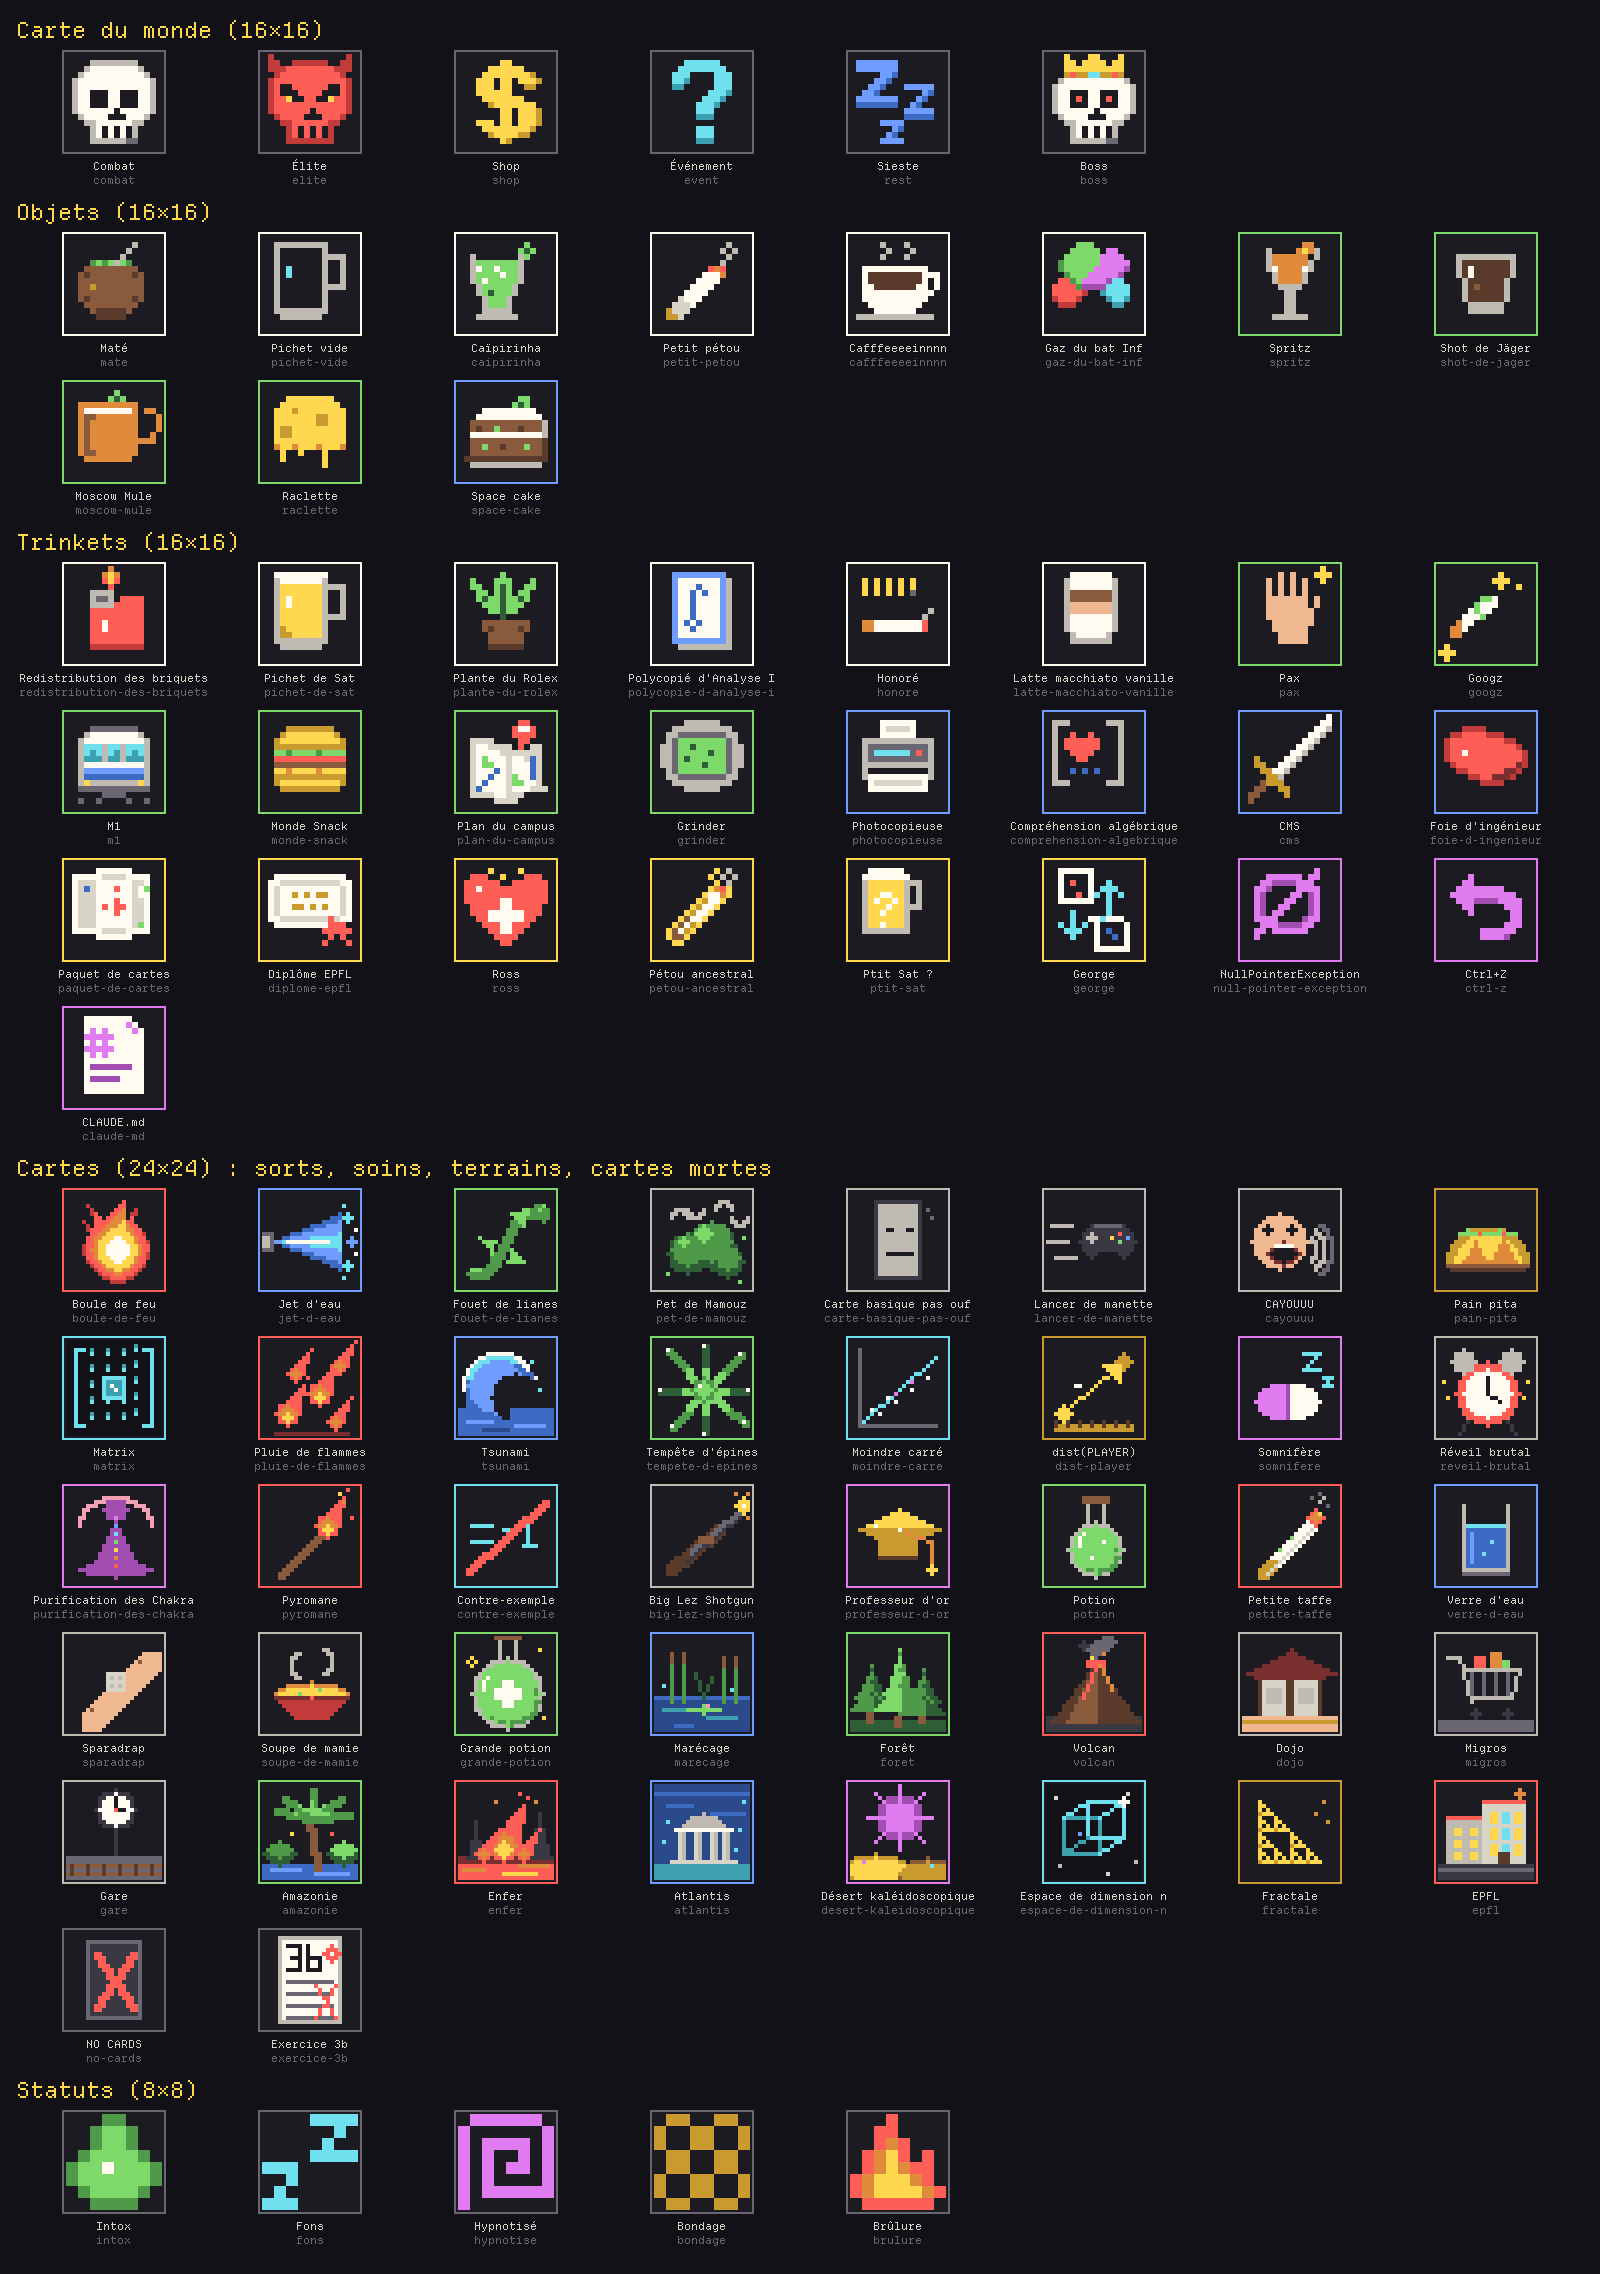
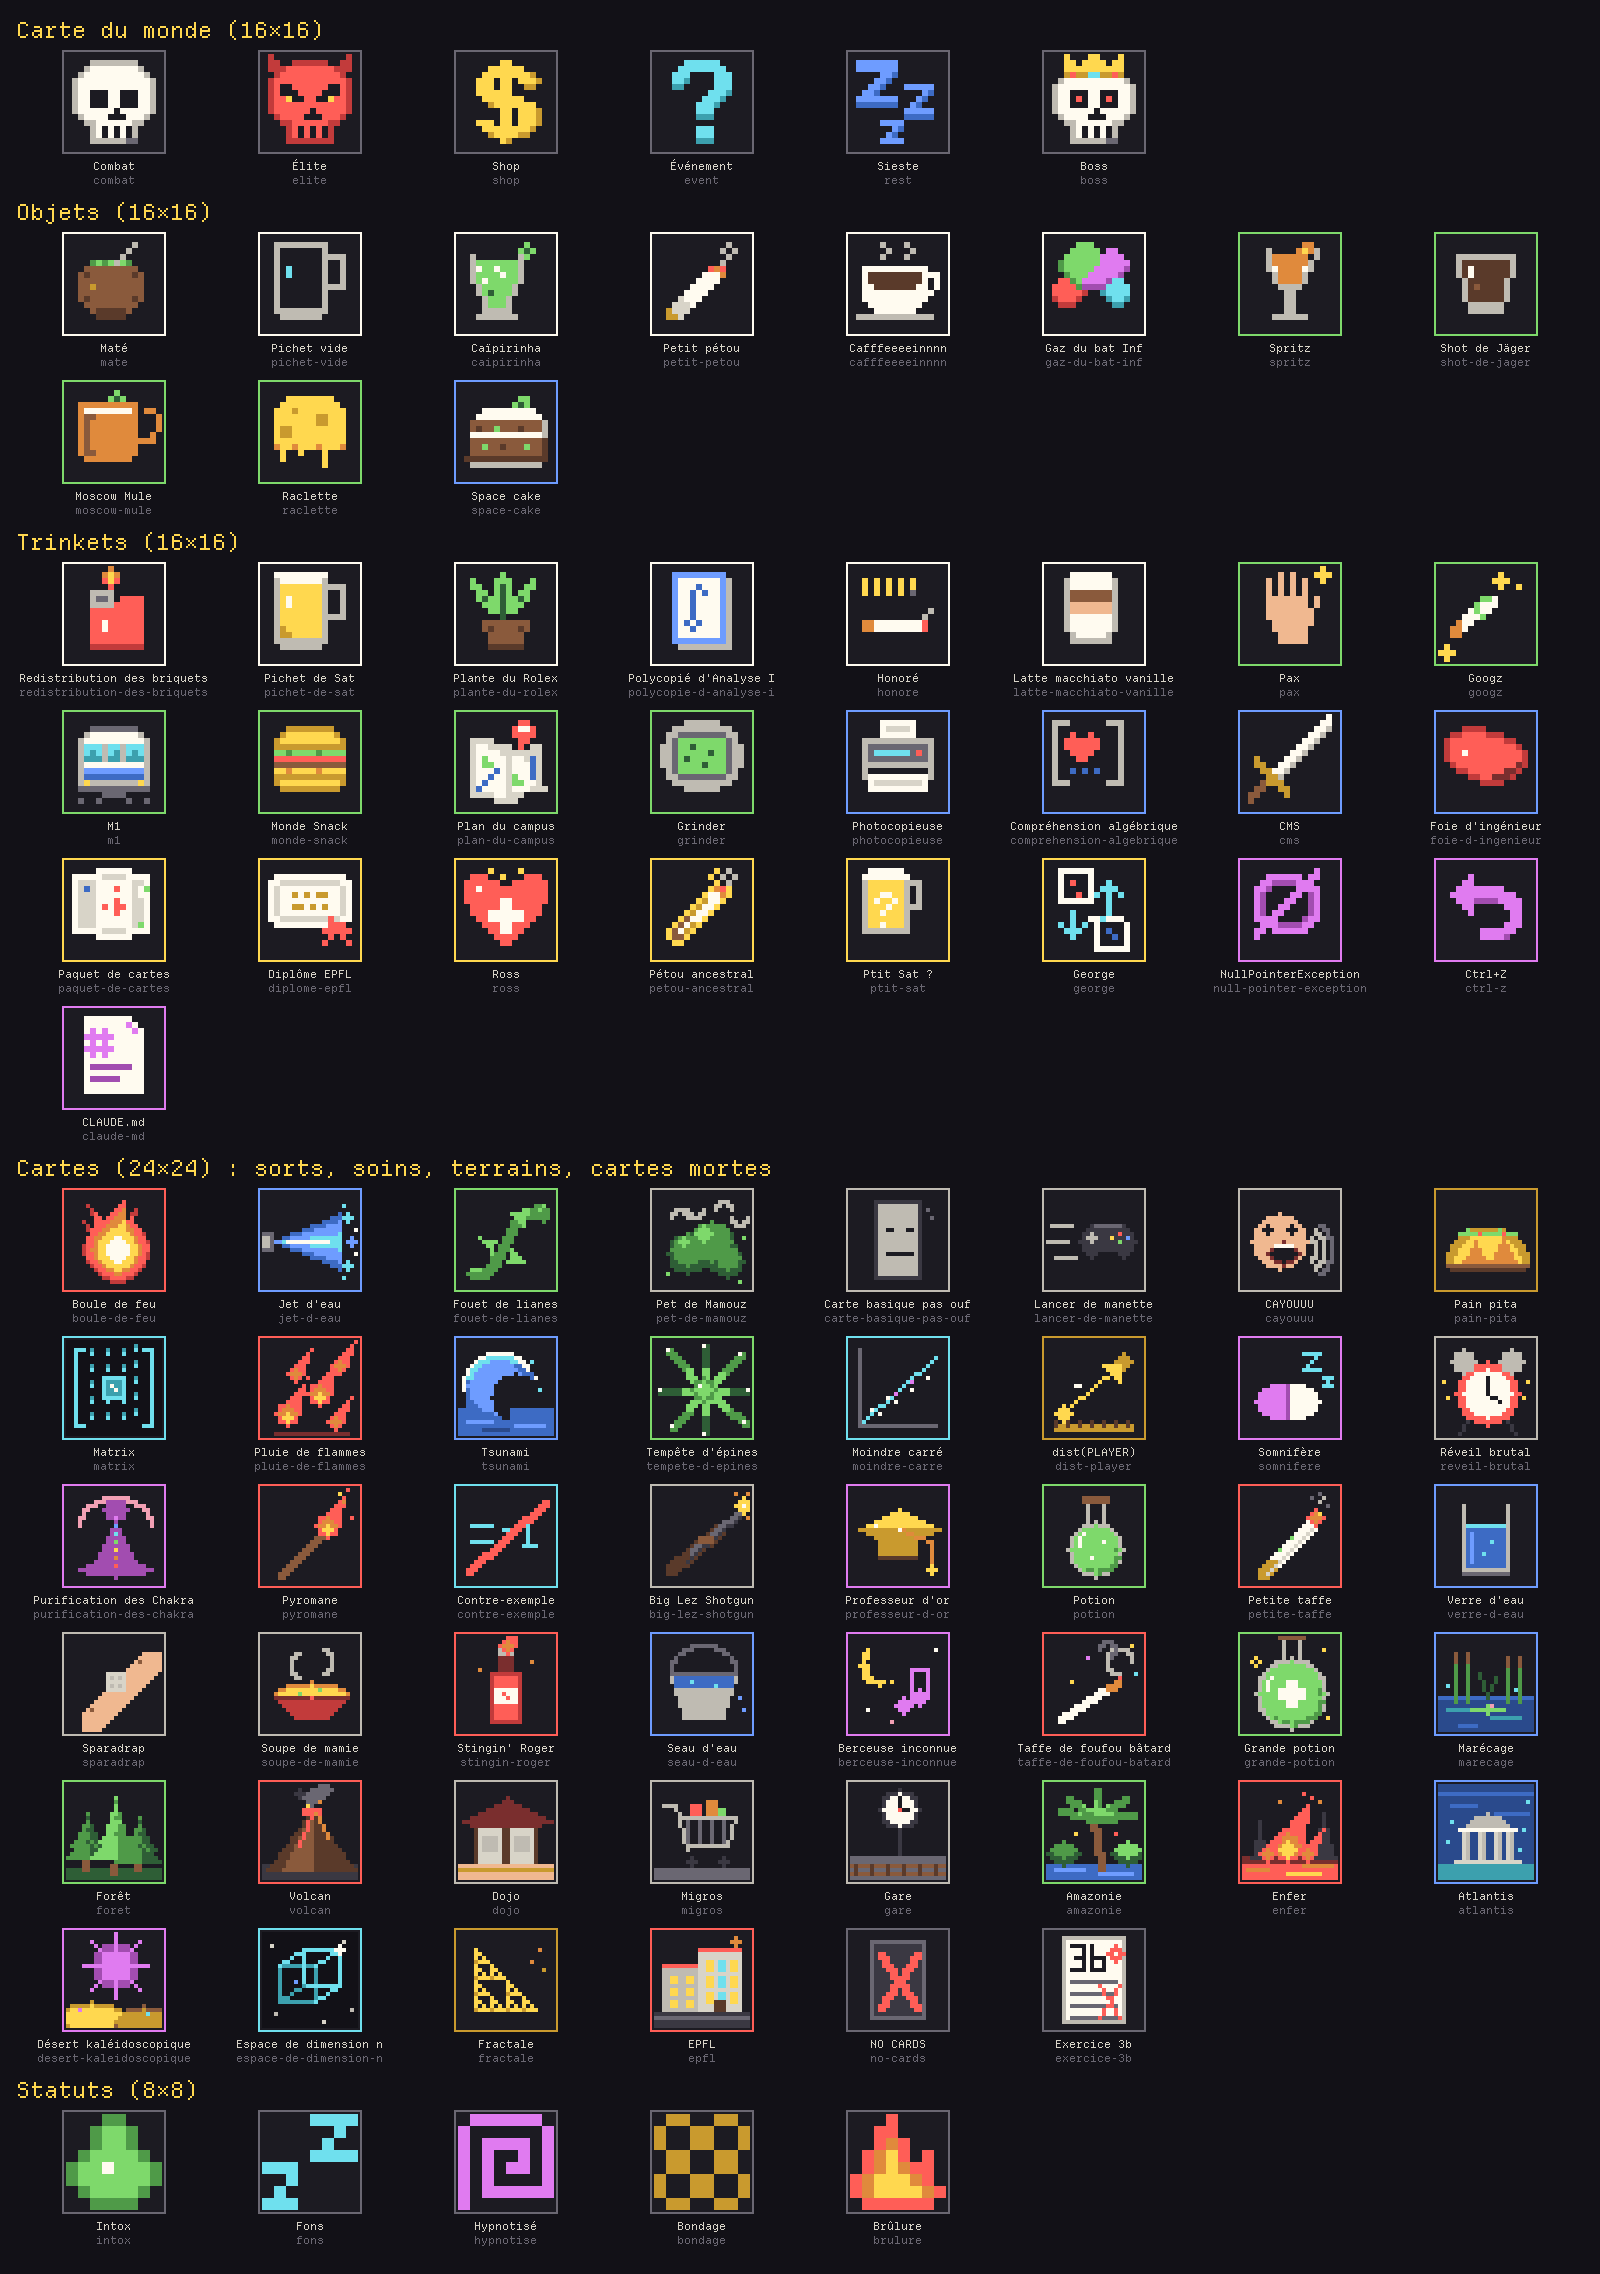
Ajoute les nouvelles cartes, lot 4
- Stingin' Roger (feu, Commun) : −5 PV, +10 % de dégâts pour tout le
  combat (cumulable).
- Seau d'eau (eau, Peu commun) : +20 PV.
- Berceuse inconnue (spirituel, Peu commun) : retire tous tes statuts
  négatifs (Intox, Fons, Bondage, Brûlure).
- Taffe de foufou bâtard (feu, Rare) : Fons 3 tours ; pendant cette
  Fons, immunisé aux coups adverses et +8 % des PV max par tour ; les
  statuts infligés passent toujours.

Un soin à 0 PV n'agit que par son pouvoir : pas de « +0 PV » affiché
ni de soin publié. Ébauches d'illustrations ajoutées à la planche.

diff --git a/src/test/java/cardistry/core/NewCardsTest.java b/src/test/java/cardistry/core/NewCardsTest.java
@@ -286,4 +286,88 @@ class NewCardsTest {
             assertEquals(Rarity.COMMON, card(name).rarity(), name);
         }
     }
+
+    // --- Lot 4 ---
+
+    @Test
+    void stinginRogerMoinsCinqPvEtDixPourcentDeDegatsCumulables() {
+        setUpFire(0, CardPool.stinginRoger(), CardPool.stinginRoger(), spell(10));
+        play();
+        assertEquals(95, state.player().hp());
+        engine.startTurn();
+        play();
+        assertEquals(90, state.player().hp());
+        assertEquals(1.2, state.playerStats().get(StatType.NEUTRAL_DAMAGE), 1e-9);
+        engine.startTurn();
+        play();
+        assertEquals(100 - 12, enemy.hp());
+        assertEquals(Element.FIRE, CardPool.stinginRoger().element());
+        assertEquals(Rarity.COMMON, CardPool.stinginRoger().rarity());
+    }
+
+    @Test
+    void seauDEauVingtPv() {
+        setUpFire(0, card("Seau d'eau"));
+        state.player().takeDamage(50);
+        play();
+        assertEquals(70, state.player().hp());
+        assertEquals(Rarity.UNCOMMON, card("Seau d'eau").rarity());
+    }
+
+    @Test
+    void berceuseInconnueRetireLesStatutsNegatifsSeulement() {
+        setUpFire(0, CardPool.berceuseInconnue());
+        var statuses = state.statuses(cardistry.core.status.StatusTarget.PLAYER);
+        for (var type : List.of(cardistry.core.status.StatusType.INTOX, cardistry.core.status.StatusType.FONS,
+                cardistry.core.status.StatusType.BONDAGE, cardistry.core.status.StatusType.BURN,
+                cardistry.core.status.StatusType.HYPNOTIZED)) {
+            statuses.apply(type, 3, cardistry.core.status.StatusTarget.ENEMY);
+        }
+        play();
+        assertEquals(List.of(cardistry.core.status.StatusType.HYPNOTIZED),
+                statuses.all().stream().map(cardistry.core.status.Status::type).toList());
+        assertEquals(Element.SPIRIT, CardPool.berceuseInconnue().element());
+        assertEquals(Rarity.UNCOMMON, CardPool.berceuseInconnue().rarity());
+    }
+
+    @Test
+    void taffeDeFoufouBatardTroisToursImmuniseEtHuitPourcentParTour() {
+        setUpFire(10, CardPool.taffeDeFoufouBatard());
+        state.player().takeDamage(50);
+        play(); // l'adversaire frappe : immunisé
+        assertEquals(50, state.player().hp());
+        List<Integer> hp = new java.util.ArrayList<>();
+        for (int turn = 1; turn <= 3; turn++) {
+            assertTrue(!engine.startTurn(), "tour " + turn + " sauté");
+            hp.add(state.player().hp());
+        }
+        assertEquals(List.of(58, 66, 64), hp, "+8 par tour ; après le 3e tour, la Fons finit et le coup passe");
+        assertTrue(engine.startTurn(), "réveillé");
+        assertEquals(Rarity.RARE, CardPool.taffeDeFoufouBatard().rarity());
+    }
+
+    @Test
+    void taffeDeFoufouBatardLesStatutsAdversesPassentToujours() {
+        setUpFire(0, CardPool.taffeDeFoufouBatard());
+        state.player().takeDamage(50);
+        play();
+        state.statuses(cardistry.core.status.StatusTarget.PLAYER)
+                .apply(cardistry.core.status.StatusType.INTOX, 3, cardistry.core.status.StatusTarget.ENEMY);
+        engine.startTurn(); // Intox −5 malgré l'immunité aux coups, puis +8 de la Fons
+        assertEquals(50 - 5 + 8, state.player().hp());
+    }
+
+    @Test
+    void unSoinSansPvNeSoignePas() {
+        java.util.List<cardistry.core.event.GameEvent> events = new java.util.ArrayList<>();
+        enemy = new Enemy("Cible", Element.NEUTRAL, 100, 0);
+        state = new GameState(new Player(100), List.of(enemy), new TerrainCard("Braise", Element.FIRE, Rarity.COMMON),
+                List.of(CardPool.berceuseInconnue()), new Stats());
+        EventBus bus = new EventBus();
+        bus.subscribe(events::add);
+        engine = new CombatEngine(state, new CardPool(), new Rng(1), bus, new LootTable(List::of));
+        engine.startTurn();
+        play();
+        assertTrue(events.stream().noneMatch(e -> e instanceof cardistry.core.event.GameEvent.Healed));
+    }
 }

diff --git a/src/main/java/cardistry/model/card/CardPool.java b/src/main/java/cardistry/model/card/CardPool.java
@@ -112,6 +112,10 @@ public class CardPool {
         cards.add(new HealCard("Verre d'eau", WATER, 10, COMMON));
         cards.add(new HealCard("Sparadrap", NEUTRAL, 12, COMMON));
         cards.add(soupeDeMamie());
+        cards.add(stinginRoger());
+        cards.add(new HealCard("Seau d'eau", WATER, 20, UNCOMMON));
+        cards.add(berceuseInconnue());
+        cards.add(taffeDeFoufouBatard());
         //UNCOMMON
         cards.add(new HealCard("Grande potion", NATURE, 20.0, UNCOMMON));
         //RARE
@@ -282,6 +286,38 @@ public class CardPool {
     public static HealCard soupeDeMamie() {
         return new HealCard("Soupe de mamie", NEUTRAL, 10, COMMON).withPower("retire l'Intox",
                 ctx -> ctx.removeStatus(StatusTarget.PLAYER, StatusType.INTOX));
+    }
+
+    public static final double STINGIN_ROGER_COST = 5;
+    public static final double STINGIN_ROGER_BONUS = 0.10;
+
+    /** Stingin' Roger : −5 PV, +10 % de dégâts pour tout le combat (cumulable). */
+    public static HealCard stinginRoger() {
+        return new HealCard("Stingin' Roger", FIRE, 0, COMMON).withPower(
+                "−5 PV, +10 % de dégâts pour tout le combat (cumulable)", ctx -> {
+                    ctx.damagePlayer(STINGIN_ROGER_COST);
+                    ctx.addCombatDamageBonus(STINGIN_ROGER_BONUS);
+                });
+    }
+
+    /** Berceuse inconnue : retire tous tes statuts négatifs (pas la Gueule de bois ni l'Ivresse). */
+    public static HealCard berceuseInconnue() {
+        return new HealCard("Berceuse inconnue", SPIRIT, 0, UNCOMMON).withPower(
+                "retire tous tes statuts négatifs (Intox, Fons, Bondage, Brûlure)", ctx -> ctx.purgeNegativeStatuses());
+    }
+
+    public static final int TAFFE_FOUFOU_TURNS = 3;
+    public static final double TAFFE_FOUFOU_HEAL_PER_TURN = 0.08;
+
+    /**
+     * Taffe de foufou bâtard : Fons 3 tours ; pendant cette Fons, immunisé aux coups adverses et +8 %
+     * des PV max par tour (les statuts infligés par les adversaires passent toujours).
+     */
+    public static HealCard taffeDeFoufouBatard() {
+        return new HealCard("Taffe de foufou bâtard", FIRE, 0, RARE).withPower(
+                "Fons " + TAFFE_FOUFOU_TURNS + " tours : immunisé aux coups, +8 % de tes PV max par tour",
+                ctx -> ctx.applyStatus(StatusTarget.PLAYER, StatusType.FONS, 1, TAFFE_FOUFOU_TURNS,
+                        new StatusExtras(TAFFE_FOUFOU_HEAL_PER_TURN, true)));
     }
 
     /** Tours passés à l'EPFL avant le retour automatique au Dojo. */

diff --git a/src/main/java/cardistry/ui/lanterna/CombatScreen.java b/src/main/java/cardistry/ui/lanterna/CombatScreen.java
@@ -350,7 +350,7 @@ final class CombatScreen {
         }
         String value = switch (card) {
             case SpellCard s -> s.damageLabel().orElse(num(s.damage())) + " dgt";
-            case HealCard h -> "+" + num(h.amount()) + " PV";
+            case HealCard h -> h.amount() > 0 ? "+" + num(h.amount()) + " PV" : "soin";
             case TerrainCard t -> "terrain";
             case DeadCard d -> "bloquée";
         };
@@ -397,6 +397,7 @@ final class CombatScreen {
                         + (mult != 1.0 ? " ×" + num(mult) : "") + " = " + num(cardistry.model.Combatant.round(s.damage() * mult))
                         + " dégâts à " + enemy.name();
             }
+            case HealCard h when h.amount() <= 0 -> head + "soin " + h.element().displayName() + " : aucun soin direct";
             case HealCard h -> {
                 double mult = state.healMultiplier(h);
                 double missing = Math.max(0, state.maxHp() - state.player().hp());

diff --git a/src/main/java/cardistry/ui/text/TextRenderer.java b/src/main/java/cardistry/ui/text/TextRenderer.java
@@ -455,7 +455,7 @@ public final class TextRenderer implements Renderer {
         return switch (card) {
             case SpellCard s -> "Sortilège " + cardName(s) + " (" + type + ") : "
                     + s.damageLabel().orElse(num(s.damage())) + " dégâts" + (s.isUnmultiplied() ? " (non multipliés)" : "");
-            case HealCard h -> "Soin " + cardName(h) + " (" + type + ") : " + num(h.amount()) + " PV";
+            case HealCard h -> "Soin " + cardName(h) + " (" + type + ")" + (h.amount() > 0 ? " : " + num(h.amount()) + " PV" : "");
             case TerrainCard t -> "Terrain " + cardName(t) + " (" + type + ")" + t.effectText().map(e -> " : " + e).orElse("");
             case DeadCard d -> cardName(d) + " : injouable jusqu'à la fin du combat";
         };

diff --git a/src/main/java/cardistry/core/CombatEngine.java b/src/main/java/cardistry/core/CombatEngine.java
@@ -1296,8 +1296,10 @@ public final class CombatEngine {
                 }
             }
             case HealCard heal -> {
-                double mult = state.healMultiplier(heal);
-                healPlayer(heal.amount() * mult * factor, mult);
+                if (heal.amount() > 0) { // un « soin » à 0 n'agit que par son pouvoir
+                    double mult = state.healMultiplier(heal);
+                    healPlayer(heal.amount() * mult * factor, mult);
+                }
             }
             case TerrainCard terrain -> changeTerrain(terrain);
             case DeadCard dead -> throw new AssertionError("refusée par validate");

diff --git a/src/main/java/cardistry/ui/CardDetail.java b/src/main/java/cardistry/ui/CardDetail.java
@@ -95,6 +95,8 @@ public final class CardDetail {
                                 + " dégâts à " + enemy.name();
                 lines.add(new Line("Total : " + total, Kind.TOTAL));
             }
+            case HealCard h when h.amount() <= 0 -> lines.add(new Line("Aucun soin direct : son pouvoir agit",
+                    Kind.TOTAL));
             case HealCard h -> {
                 double terrain = ElementRules.healMultiplier(h.element(), state.terrain().element());
                 lines.add(new Line("Terrain " + state.terrain().name() + " : ×" + num(terrain), Kind.TEXT));

diff --git a/src/main/java/cardistry/ui/CardText.java b/src/main/java/cardistry/ui/CardText.java
@@ -33,6 +33,7 @@ public final class CardText {
             case SpellCard s when s.damage() <= 0 && !s.hasDamageRule() -> "aucun dégât";
             case SpellCard s -> s.damageLabel().orElse(num(s.damage())) + " dégâts"
                     + (s.isUnmultiplied() ? " (non multipliés)" : "");
+            case HealCard h when h.amount() <= 0 -> "";
             case HealCard h -> "+" + num(h.amount()) + " PV";
             case TerrainCard t -> "";
             case DeadCard d -> "jusqu'à la fin du combat";

diff --git a/src/main/java/cardistry/ui/lanterna/CombatWindowScreen.java b/src/main/java/cardistry/ui/lanterna/CombatWindowScreen.java
@@ -347,7 +347,7 @@ final class CombatWindowScreen {
     static String value(Card card) {
         return switch (card) {
             case SpellCard s -> s.damageLabel().orElse(num(s.damage()));
-            case HealCard h -> "+" + num(h.amount());
+            case HealCard h -> h.amount() > 0 ? "+" + num(h.amount()) : "";
             case TerrainCard t -> "";
             case DeadCard d -> "";
         };
